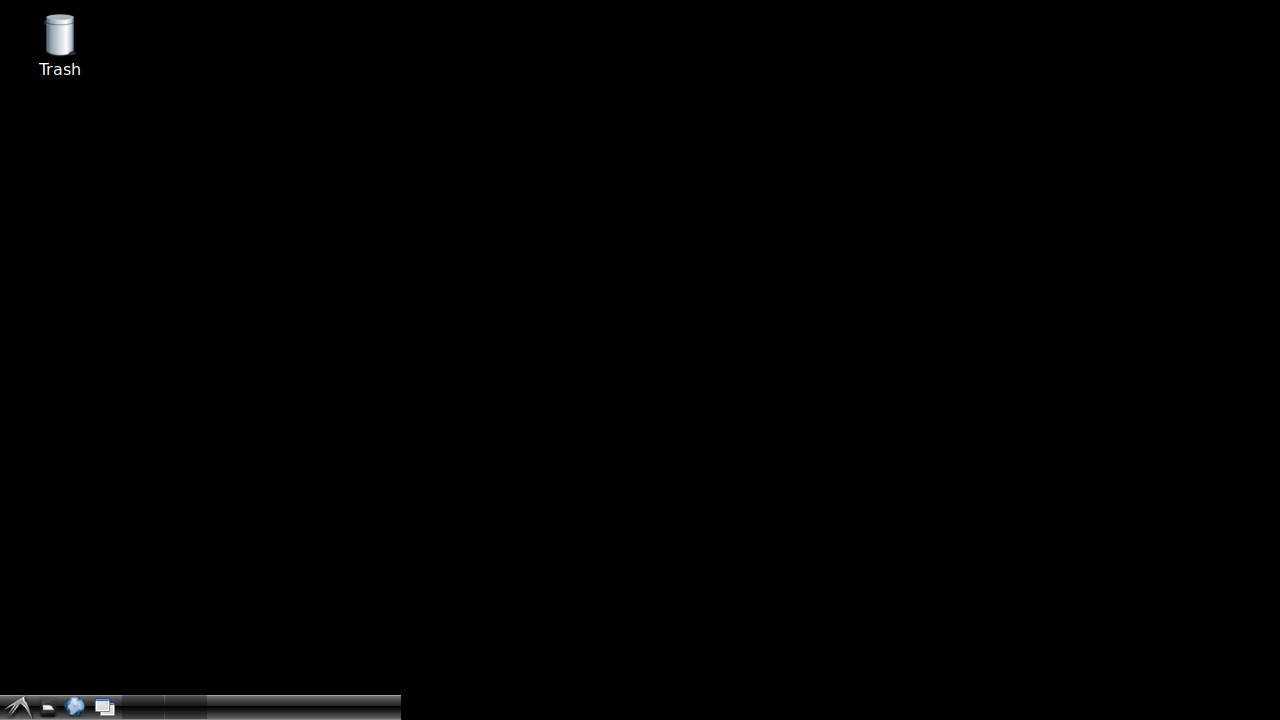
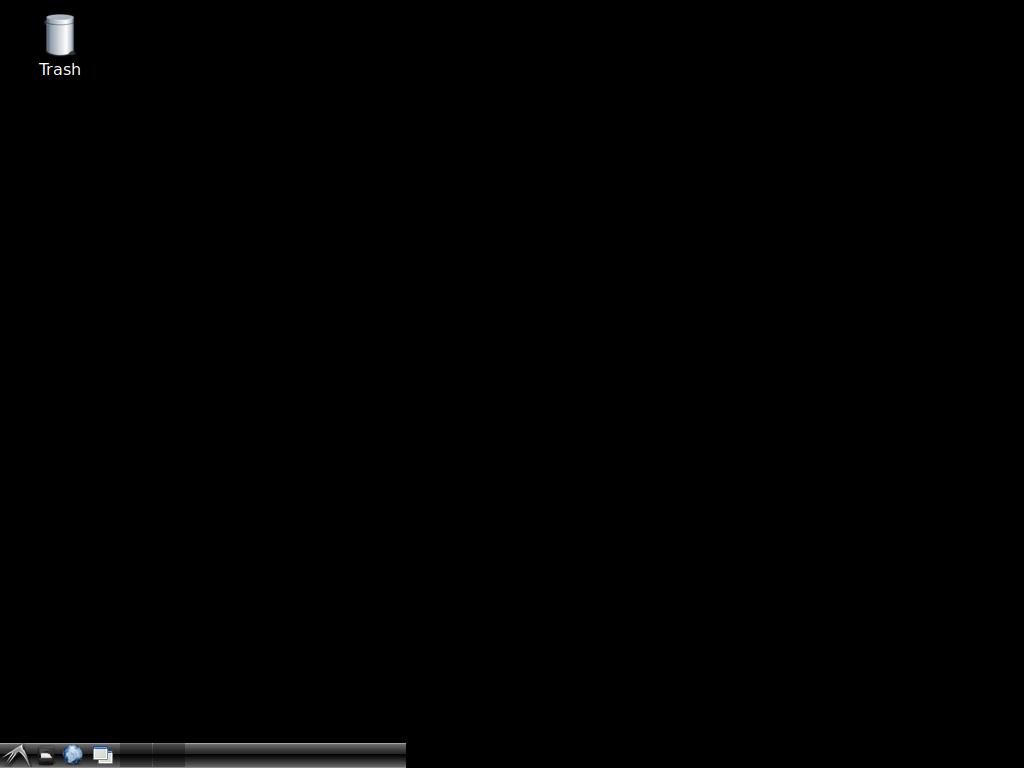
docs(virtual_desktop): refresh desktop screenshots
Refresh the five existing captures and add Cinnamon, LXQt, and Plasma. Use CI run 40873820841 for six captures, regenerated LXDE from run 40880721946, and regenerated LXQt from run 40882466906 after fixing their headless startup dialogs.

Changed region(s): [[0.0, 0.9472, 0.4062, 1.0], [0.0312, 0.0, 0.0938, 0.1222]]

diff --git a/actions/virtual_desktop/README.md b/actions/virtual_desktop/README.md
@@ -26,10 +26,10 @@ steps:
 
 ## 📥 Inputs
 
-| Name                 | Description                                                                                        | Default    | Required |
-|----------------------|----------------------------------------------------------------------------------------------------|------------|----------|
-| appindicator-version | AppIndicator version (ayatana, legacy). Only applies to mate and xfce                              | `ayatana`  | `false`  |
-| display-size         | Display resolution in WIDTHxHEIGHT format (e.g., 1920x1080)                                        | `1024x768` | `false`  |
+| Name                 | Description                                                                         | Default    | Required |
+|----------------------|-------------------------------------------------------------------------------------|------------|----------|
+| appindicator-version | AppIndicator version (ayatana, legacy). Only applies to mate and xfce               | `ayatana`  | `false`  |
+| display-size         | Display resolution in WIDTHxHEIGHT format (e.g., 1920x1080)                         | `1024x768` | `false`  |
 | environment          | Desktop environment (cinnamon, fluxbox, lxde, lxqt, mate, openbox, plasma, or xfce) | `plasma`   | `false`  |
 
 ## 📤 Outputs
@@ -42,6 +42,8 @@ steps:
 ## 🖥 Desktop Environments
 
 ### Cinnamon
+
+![Cinnamon Desktop](docs/images/screenshot-cinnamon.png)
 
 **Best for:** A modern, familiar desktop with a traditional workflow
 
@@ -88,6 +90,8 @@ with:
 ```
 
 ### LXQt
+
+![LXQt Desktop](docs/images/screenshot-lxqt.png)
 
 **Best for:** A modern, lightweight Qt desktop
 
@@ -136,6 +140,8 @@ with:
 ```
 
 ### KDE Plasma
+
+![KDE Plasma Desktop](docs/images/screenshot-plasma.png)
 
 **Best for:** Testing against a full-featured modern Qt desktop
 
